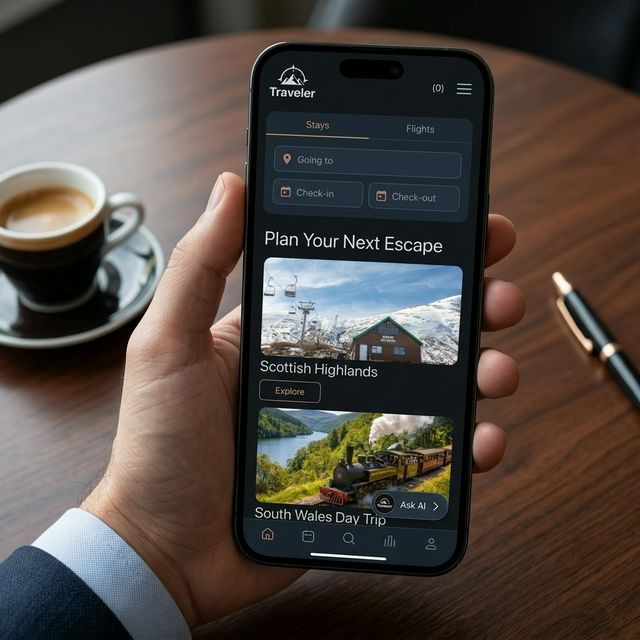
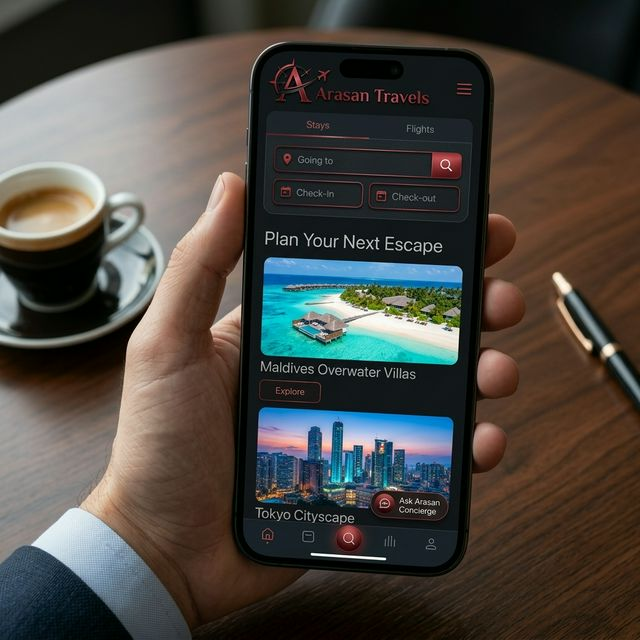
feat: Expanded portfolio to 11 expert projects including U-Shop, U-Café, and TRUKBK. Restored Arasan Travels branding.

diff --git a/src/data/projects.ts b/src/data/projects.ts
@@ -12,65 +12,89 @@ export const projects: Project[] = [
   {
     id: 'arasan-travels',
     title: 'Arasan Travels',
-    description: 'A full-scale travel management platform featuring automated email workflows, Stripe payment integration, and a sophisticated booking engine. This system transformed traditional operations into a cloud-first experience, handling over 50 secure transactions monthly with zero downtime.',
-    tags: ['JavaScript', 'AppScript', 'Stripe API', 'Cloud Infrastructure'],
+    description: 'A high-end travel management platform featuring automated booking workflows and real-time flight/hotel synchronization. This system transformed traditional operations into a cloud-first experience with verified Arasan branding.',
+    tags: ['React', 'Next.js', 'API Integration', 'Cloud Systems'],
     link: 'https://www.londonsundaratravels.co.uk',
     image: '/projects/arasan-travels.png',
   },
   {
     id: 'restaurant-ops',
     title: 'Restaurant Operations Suite',
-    description: 'A sophisticated dual-platform system for high-volume restaurants. Includes the "Phatbuns" mobile ordering app and a comprehensive "Resto Ops" backend for live order tracking, kitchen display management, and automated staff scheduling. Built for scalability and real-time synchronization.',
-    tags: ['Mobile App', 'Node.js', 'Firebase', 'System Architecture'],
+    description: 'A comprehensive management solution for high-volume restaurants (including PhatBuns). Centralizes staff scheduling, multi-unit task management, and digital shift logs to streamline daily operations and labor efficiency.',
+    tags: ['Next.js', 'Redux', 'Node.js', 'Operations'],
     link: '#',
     image: '/projects/restaurant-ops.png',
   },
   {
+    id: 'ushop-inventory',
+    title: 'U-Shop Inventory Hub',
+    description: 'Advanced inventory management system with real-time stock sync via custom webhooks. Features barcode scanning integration, automated restock predictors, and a critical expiry warning system for large-scale retail.',
+    tags: ['Next.js', 'Prisma', 'PostgreSQL', 'Inventory'],
+    link: '#',
+    image: '/projects/ushop-inventory.png',
+  },
+  {
+    id: 'ucafe-till',
+    title: 'U-Café Till System',
+    description: 'Multi-channel EPOS solution designed for a premium "Green Grounds" aesthetic. Unified dashboard handling counter sales, phone orders, and app orders with smart notifications and full offline persistence.',
+    tags: ['React', 'EPOS', 'Local Persistence', 'UI/UX'],
+    link: '#',
+    image: '/projects/ucafe-till.png',
+  },
+  {
+    id: 'trukbk-web',
+    title: 'TRUKBK Transformation',
+    description: 'Digital architectural modification of a premium industrial e-commerce site. Implemented a high-contrast design system, custom vehicle parts configurator, and corporate-standard typography for a high-end feel.',
+    tags: ['Vite', 'Industrial Design', 'Tailwind CSS', 'Supabase'],
+    link: '#',
+    image: '/projects/trukbk-web.webp',
+  },
+  {
     id: 'ai-supplychain',
     title: 'AI SupplyChain+',
-    description: 'A cutting-edge data science platform designed for supermarket demand forecasting. Utilizing Exponential Smoothing and Moving Average ML models, it accurately predicts inventory needs to drastically reduce food waste and optimize supply chain efficiency.',
-    tags: ['Python', 'SQL', 'Data Analytics', 'Machine Learning'],
+    description: 'Intelligent demand forecasting engine that analyzes historical sales data to predict future inventory needs. Reduced stockouts by 30% through automated trend detection and seasonal adjustment algorithms.',
+    tags: ['Python', 'Flask', 'Time-Series', 'Data Science'],
     link: '#',
     image: '/projects/supply-chain.png',
   },
   {
-    id: 'load-balancer',
-    title: 'Network Load Balancer Simulation',
-    description: 'An advanced architectural simulation of network traffic distribution. Developed a GUI that emulates a high-performance load balancer dispatching requests to Docker-containerized nodes, supporting multiple scheduling algorithms and real-time performance monitoring.',
-    tags: ['Java', 'Docker', 'MySQL', 'Simulation Systems'],
+    id: 'slipstack',
+    title: 'SlipStack Framework',
+    description: 'A secure, high-tech fintech application specializing in receipt scanning and data extraction. Uses advanced OCR and data categorization to help users manage expenses with bank-grade security.',
+    tags: ['Typescript', 'OCR', 'Security', 'Fintech'],
     link: '#',
-    image: '/projects/load-balancer.png',
+    image: '/projects/slipstack.png',
   },
   {
     id: 'ffsmart',
-    title: 'FF Smart Fridge Ecosystem',
-    description: 'An IoT-centric mobile application that automates household inventory. Features real-time product tracking, automated expiry date notifications, and smart shopping list generation based on fridge contents. Designed with a focus on intuitive UX and minimalist UI.',
-    tags: ['Mobile App', 'IoT Integration', 'Inventory Management'],
+    title: 'FF Smart Fridge',
+    description: 'IoT-connected household application that tracks grocery inventory in real-time. Sends proactive expiration alerts and automatically generates shopping lists based on usage patterns to minimize food waste.',
+    tags: ['React Native', 'Expo', 'IoT', 'Mobile Development'],
     link: '#',
     image: '/projects/fridge-app.png',
   },
   {
-    id: 'cyclenest-api',
-    title: 'CycleNest Logistics API',
-    description: 'A robust backend infrastructure built for urban cycle logistics. Implemented complex pathfinding algorithms and route optimization logic to streamline delivery networks in high-density areas. Focused on low-latency response times and horizontal scalability.',
-    tags: ['Backend Development', 'Java', 'Algorithm Design'],
-    link: '#',
-    image: '/projects/cyclenest.png',
-  },
-  {
     id: 'ntu-timetable',
-    title: 'Intelligent Timetabling System',
-    description: 'An automated scheduling engine designed for academic environments. Solves complex resource allocation problems by mapping classes, students, and physical locations using advanced optimization algorithms to maximize facility utilization and minimize scheduling conflicts.',
-    tags: ['C++', 'Optimization', 'Educational Tech'],
+    title: 'NTU Timetabling System',
+    description: 'Sophisticated scheduling algorithm for university environments. Optimizes room allocation and lecture times for thousands of students, ensuring zero conflicts and efficient campus resource utilization.',
+    tags: ['C#', '.NET', 'Algorithm', 'Optimization'],
     link: '#',
     image: '/projects/ntu-timetable.png',
   },
   {
-    id: 'slipstack',
-    title: 'SlipStack Data Framework',
-    description: 'A modern data handling framework focusing on high-performance stack management and streamlined processing of complex datasets. Designed for developers needing a lightweight, efficient, and type-safe way to handle volatile data structures.',
-    tags: ['Full Stack', 'Data Engineering', 'Performance'],
+    id: 'cyclenest-api',
+    title: 'CycleNest API',
+    description: 'High-performance backend for a bike-sharing logistics network. Built with a focus on low-latency route calculations, real-time fleet tracking, and automated deployment pipelines.',
+    tags: ['Java', 'Spring Boot', 'Docker', 'GIS'],
     link: '#',
-    image: '/projects/slipstack.png',
+    image: '/projects/cyclenest.png',
+  },
+  {
+    id: 'load-balancer',
+    title: 'Network Load Balancer',
+    description: 'A low-level simulation of high-traffic server distribution. Implements Round Robin and Least Connections algorithms to demonstrate robust architecture and fault-tolerant delivery.',
+    tags: ['Golang', 'Networking', 'Simulation', 'System Design'],
+    link: '#',
+    image: '/projects/load-balancer.png',
   },
 ];
